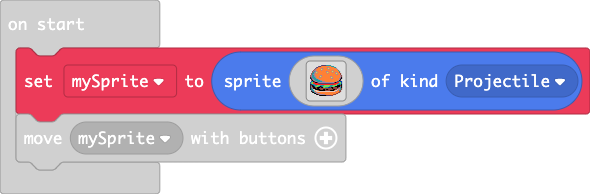
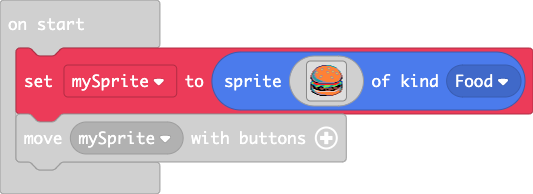
Update main.blocks, main.ts

diff --git a/main.ts b/main.ts
@@ -31,5 +31,5 @@ f 6 6 d d f f f f f e e e f f e f f e e e e e f f e e d b 4 6 e
 . . . . . . f f e b b b b b b 4 4 4 4 4 4 4 4 e e e . . . . . . 
 . . . . . . . . . f f f f f f f c c c c c e e . . . . . . . . . 
 . . . . . . . . . . . . . . . . . . . . . . . . . . . . . . . . 
-`, SpriteKind.Projectile)
+`, SpriteKind.Food)
 controller.moveSprite(mySprite)
